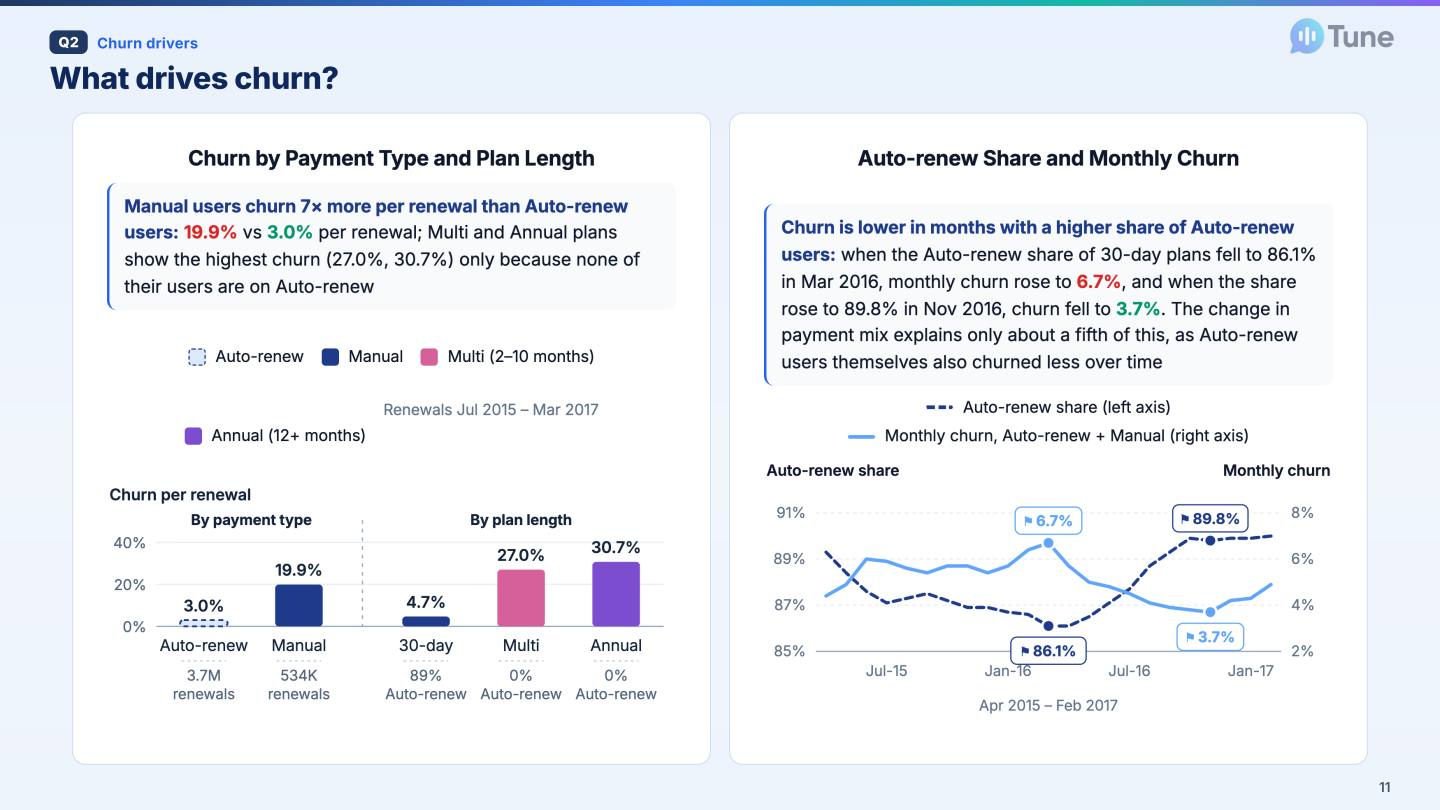
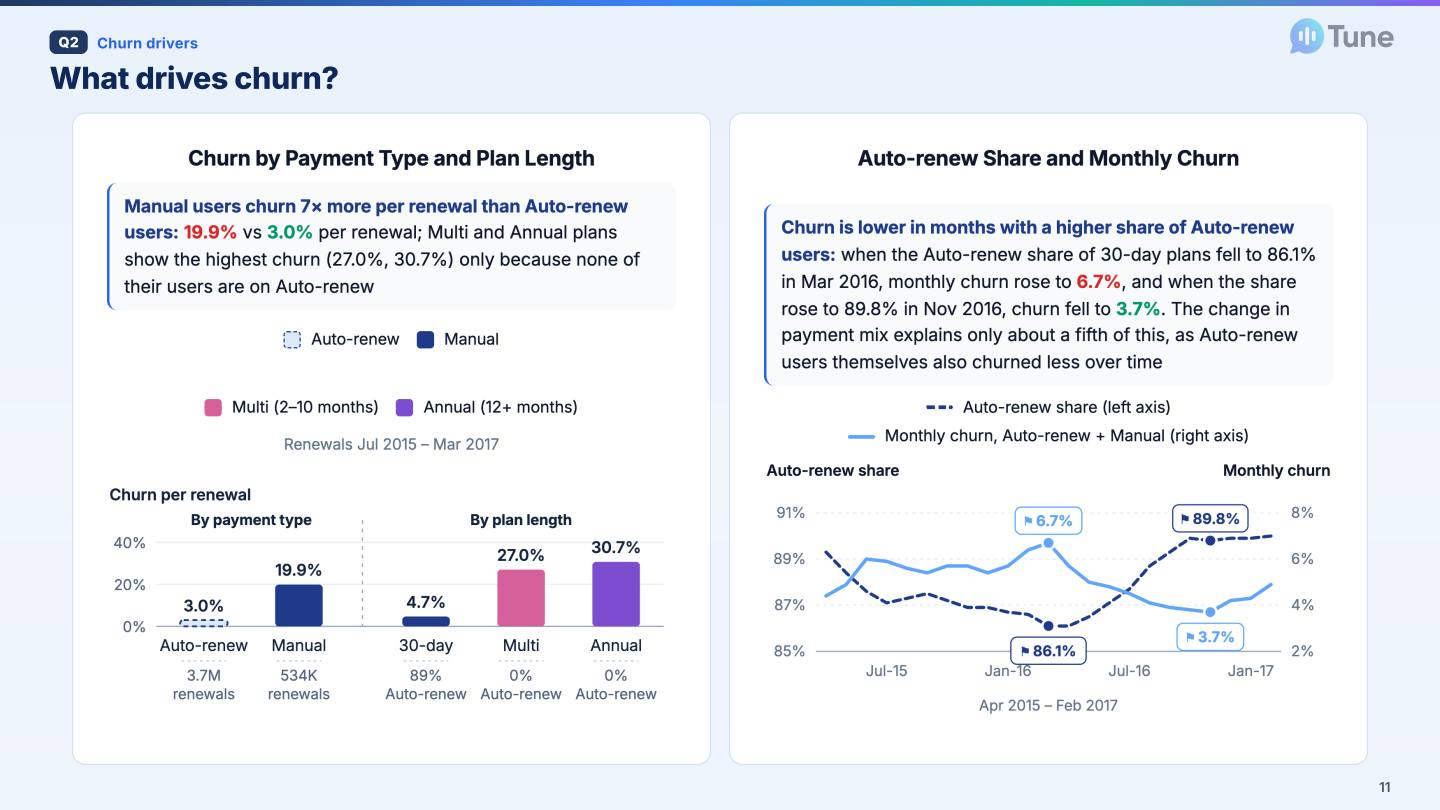
3a churn chart legend on two clean lines; deck slide 6 mix bars with New at the bottom and full-width insight text

Changed region(s): [[0.125, 0.4938, 0.4062, 0.5556], [0.125, 0.4012, 0.4062, 0.463]]

diff --git a/index.html b/index.html
@@ -2130,7 +2130,7 @@ const P23_TYPE = [["2015-02",1.98,2249,15.1,1943,0.09,4],["2015-03",2.32,2673,17
     hand: (d) => `<b>When only Manual users are compared, plan length has a much smaller effect on churn:</b> 30-day plans churn ${d.p30[0].toFixed(1)}% per renewal vs ${d.multi.toFixed(1)}% for Multi and ${d.ann.toFixed(1)}% for Annual plans, and an Annual plan comes up for renewal only once a year`,
   };
   const lg = document.getElementById("p3c1-lg");
-  lg.innerHTML = `<span><i class="dsh"></i>Auto-renew</span><span><i style="background:var(--p3-man)"></i>Manual</span><span><i style="background:var(--p3-multi)"></i>Multi (2–10 months)</span><span><i style="background:var(--p3-annual)"></i>Annual (12+ months)</span>`;
+  lg.innerHTML = `<span><i class="dsh"></i>Auto-renew</span><span><i style="background:var(--p3-man)"></i>Manual</span><b class="lg-br"></b><span><i style="background:var(--p3-multi)"></i>Multi (2–10 months)</span><span><i style="background:var(--p3-annual)"></i>Annual (12+ months)</span>`;
   function draw() {
     const W = el.clientWidth; if (!W) return;
     const nar = W < 420;  // phones: the two panels sit one above the other, so labels don't overlap
@@ -5057,7 +5057,10 @@ h2+.mf-row,.mf-row{margin:-4px 0 6px;text-align:center;font-size:13px;color:var(
 /* 3a: the "+" fold line under each graph is small and tight, so the chart gets the room */#view-p3a .p3g>.p3-card>.cx-note:not(#_),#view-p3a .p3g>.p3-card>.cx-note:not(#_) details>summary{font-size:13px!important;line-height:1.3}#view-p3a .p3g>.p3-card>.cx-note:not(#_) details>summary{font-weight:600!important}#view-p3a .p3g>.p3-card>.cx-note:not(#_){margin-top:-4px}
 #view-p3a .p3g>.p3-card>.p3-cc:not(#_){padding:8px 10px 8px 12px!important;line-height:1.5!important;min-height:0!important}
 #view-p3a .p3g>.p3-card>.p3-lg:not(#_){gap:4px 14px!important;margin-top:0!important}
-#view-p3a .p3-lg[data-per]::after{content:attr(data-per);color:var(--v-mute);font-size:12.5px}  /* period of a graph drawn by the older engine */
+#view-p3a .p3-lg[data-per]::after{content:attr(data-per);color:var(--v-mute);font-size:12.5px}
+/* 3a card 1 legend (user 11-17): payment types on line 1, plan lengths on line 2, period on its own line under them */
+#p3c1-lg .lg-br{flex-basis:100%;height:0}
+#p3c1-lg[data-per]::after{flex-basis:100%;text-align:center}  /* period of a graph drawn by the older engine */
 /* graphs 3 and 4 have no toggle: the empty toggle row takes no space, so the text boxes move up and the charts get the height */
 #view-p3a .p3g>.p3-card>h2+div:empty:not(#_){height:0;min-height:0;margin-top:-8px}
 @media (max-width:640px){.vz-lg .mf{font-size:0;text-decoration:none}.vz-lg .mf::after{content:"SQL";font-size:11.5px;font-family:var(--mono,ui-monospace,monospace);color:var(--accent);text-decoration:underline dotted;text-underline-offset:3px}}
